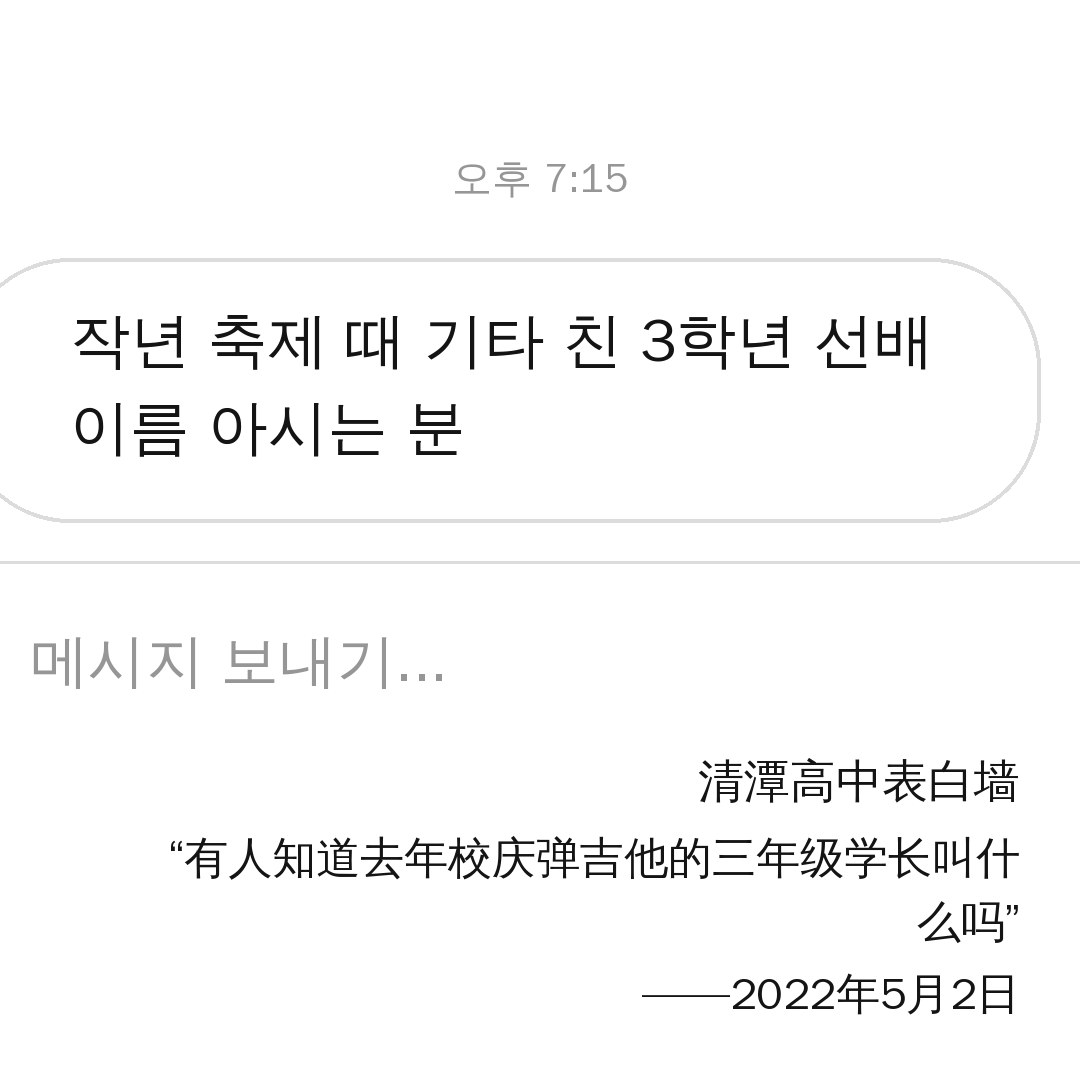
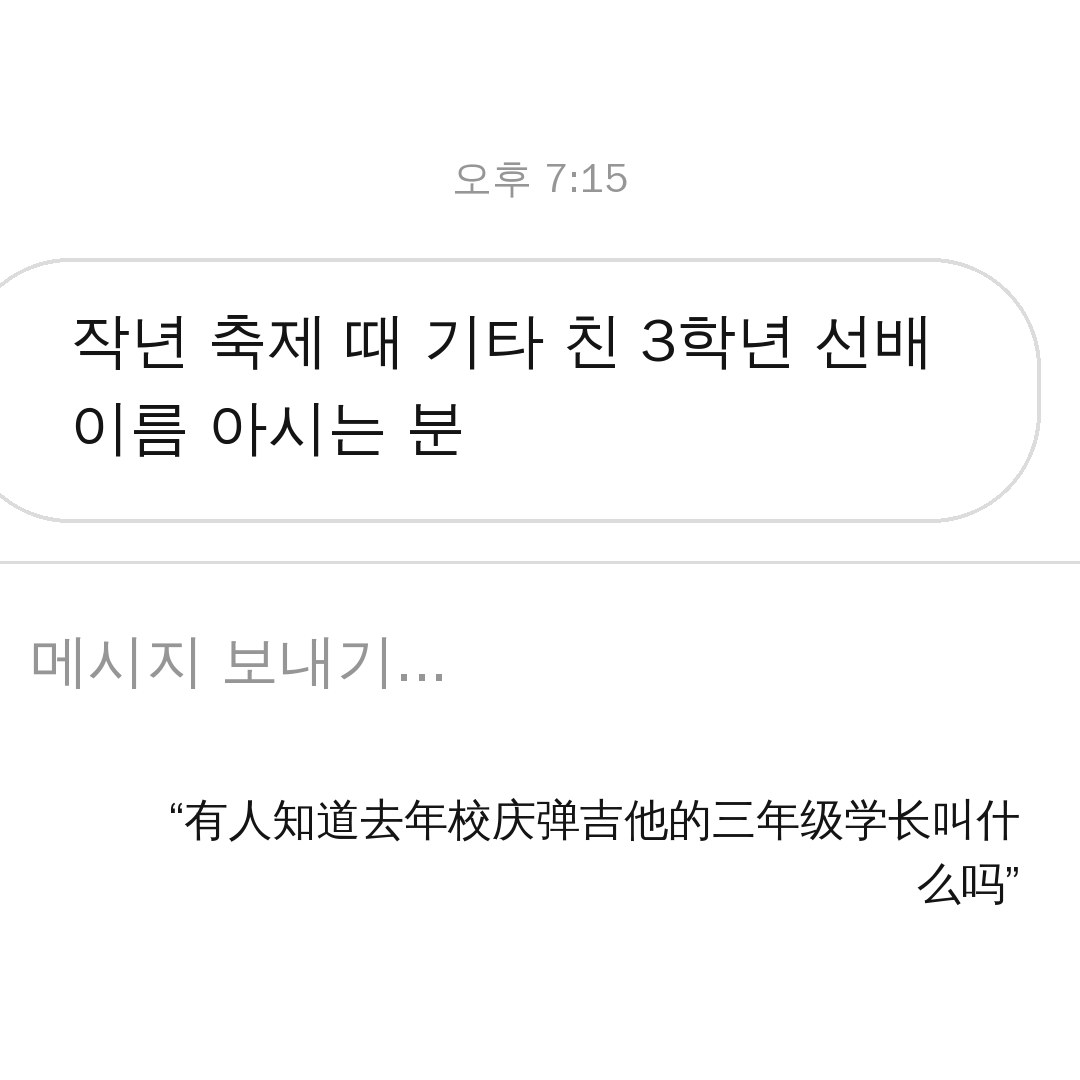
Remove member comments from school account; translation only
Claude-Session: https://claude.ai/code/session_01KpBW3rg3aXbPWwGZrX1Mii

Changed region(s): [[0.1528, 0.7028, 0.9472, 0.9472]]

diff --git a/public/index.html b/public/index.html
@@ -5060,15 +5060,15 @@ const IG_CD_POSTS = [
     ['tsn.0810_th','น้องไท่ซานฮอตตั้งแต่สมัยเรียนเลยหรอ 😭', 97, '1年', []],
     ['onedoor.id','kak taesan emang dari dulu ganteng banget ya 😭', 81, '1年', []]]),
   cdp('p13', '2023-02-10', '2023年2月10日', '毕业快乐🎓', 412, 'shuyan.k', [
-    ['jaehyun_m','大家都辛苦了', 34, '3年', []], ['ssol_e','学长学姐不要走ㅠㅠㅠ', 19, '3年', []]]),
+ ['juho_park','大家都辛苦了', 34, '3年', []], ['ssol_e','学长学姐不要走ㅠㅠㅠ', 19, '3年', []]]),
   cdp('p01', '2023-02-07', '2023年2月7日', '❤❤', 7403, 'shuyan.k', [
-    ['jaehyun_m','@han.dm_ 喂', 52, '3年', [['woonhak_','哈哈哈哈哈哥收到毕业礼物了', 31, '3年']]],
+    ['juho_park','@minjae_k_ 是在说你们班那个吗', 52, '3年', [['minjae_k_','哈哈哈哈哈学长毕业礼物收到了', 31, '3年']]],
     ['minjae_k_','连18号都写上了 这是认真的', 44, '3年', []],
     ['_hyeri.j','好想知道是谁哈哈哈哈', 27, '3年', [['yerin.cdhs','@_hyeri.j 我也是', 4, '3年']]],
-    ['han.dm_','已收到', 186, '3年', [['juho_park','本人出现了哈哈哈哈哈', 40, '3年'], ['eunbi._','你知道是谁吗？？', 12, '3年'], ['han.dm_','秘密', 58, '3年']]],
+    ['eunbi._','能不能让本人看到啊 好想知道他什么反应', 40, '3年', [['juho_park','我去给他截图哈哈哈哈', 12, '3年']]],
     ['shuyan.k','勇气可嘉👍', 9, '3年', []],
     ['dooyoung04','毕业前被告白 羡慕了', 15, '3年', []],
-    ['taesan_cn','考古考到了！！！太山学生时代被表白的帖子 而且他本人还回了“已收到” 我死了', 1820, '1年', [['hamster_bnd','"비밀"이라고 한 거 뭐야 진짜 누군데ㅠㅠ', 604, '1年'], ['onedoor_us','the way he replied "secret" 👀', 512, '1年']]],
+    ['taesan_cn','考古考到了！！！太山学生时代被表白的帖子 连班级学号都写了 我死了', 1820, '1年', [['hamster_bnd','3학년 2반 18번 ㅠㅠ 교복 입은 태산이 상상됨', 604, '1年'], ['onedoor_us','imagine confessing to taesan before he debuted 😭', 512, '1年']]],
     ['onedoor_jp','卒業前に告白されてるテサン…青春すぎる😭', 733, '1年', []],
     ['hamster_bnd','18번까지 적은 거 진심 그 자체 ㅋㅋㅋㅋ 누구세요 나와주세요', 688, '1年', []],
     ['tsn.0810_th','ใครเป็นคนส่งคะ😭😭 อยากรู้มาก', 344, '1年', []],
@@ -5083,12 +5083,12 @@ const IG_CD_POSTS = [
   cdp('p10', '2022-04-22', '2022年4月22日', '寻找雨伞天使☔', 241, 'nayeon_kk', [
     ['nayeon_kk','昨天雨好大 好温柔', 18, '4年', []], ['ssol_e','看到这种就心动', 9, '4年', []]]),
   cdp('p05', '2022-04-11', '2022年4月11日', '帮你问一下', 1203, 'jjun.0412', [
-    ['woonhak_','没有哈哈哈 天天就知道练习', 143, '4年', [['nayeon_kk','@woonhak_ 哦 谢谢情报', 22, '4年']]],
+    ['juho_park','没有吧哈哈哈 天天就知道去练习', 143, '4年', [['nayeon_kk','@juho_park 哦 谢谢情报', 22, '4年']]],
     ['_hyeri.j','韩东旼学长人气真的好高', 58, '4年', []],
-    ['jaehyun_m','@han.dm_ 你又上了', 39, '4年', []],
-    ['taesan_cn','2022年4月 金云鹤：没有 天天就知道练习 哈哈哈哈哈哈好可爱', 433, '1年', []],
-    ['onedoor_jp','ウナクの即答で笑った🤣', 198, '1年', []],
-    ['onedoor_us','woonhak answering for him is so funny', 176, '1年', []]]),
+    ['minjae_k_','这已经是这个月第三条问他的了', 39, '4年', []],
+    ['taesan_cn','2022年4月 同学：没有吧 天天就知道去练习 哈哈哈哈哈太山你怎么这么好笑', 433, '1年', []],
+    ['onedoor_jp','練習ばっかりのテサン…今と変わらない🤣', 198, '1年', []],
+    ['onedoor_us','"only goes to practice" he really has been like this forever', 176, '1年', []]]),
   cdp('p11', '2022-06-13', '2022年6月13日', '同意100', 504, 'minjae_k_', [['minjae_k_','这种真的应该举报', 32, '4年', []]]),
   cdp('p09', '2022-05-02', '2022年5月2日', '寻人', 67, 'ji.woo_o', [['ji.woo_o','好像是乐队部的学长', 5, '4年', []]]),
   cdp('p07', '2021-11-18', '2021年11月18日', '小卖部面包大战', 389, 'hyun.04', [['hyun.04','第二节下课就得冲', 26, '5年', []], ['taeyang.s','菠萝包是奢侈品', 11, '5年', []]]),
@@ -5102,7 +5102,7 @@ const IG_CD_POSTS = [
   cdp('p04', '2021-09-24', '2021年9月24日', '失物招领', 23, 'seo_yb04', [['seo_yb04','啊是我的 谢谢ㅠ', 2, '5年', []]]),
 ];
 IG_CD_POSTS.sort((a, b) => b.d.localeCompare(a.d));
-IG_PROFILE[IG_CD] = { name:'청담고대신전해드립니다', posts:'45', fol:'1,284', fing:'57', bio:['School', '500%익명 👇'], link:'open.kakao.com/o/sD4m1fWc', by:['shuyan.k','jaehyun_m','woonhak_'], hl:[],
+IG_PROFILE[IG_CD] = { name:'청담고대신전해드립니다', posts:'45', fol:'1,284', fing:'57', bio:['School', '500%익명 👇'], link:'open.kakao.com/o/sD4m1fWc', by:['shuyan.k','juho_park','_hyeri.j'], hl:[],
   grid:IG_CD_POSTS.map(p => p.scenes[0]), go:IG_CD_POSTS.map((_, i) => 'igpostv|h:' + i) };
 
 /* =========================================================
